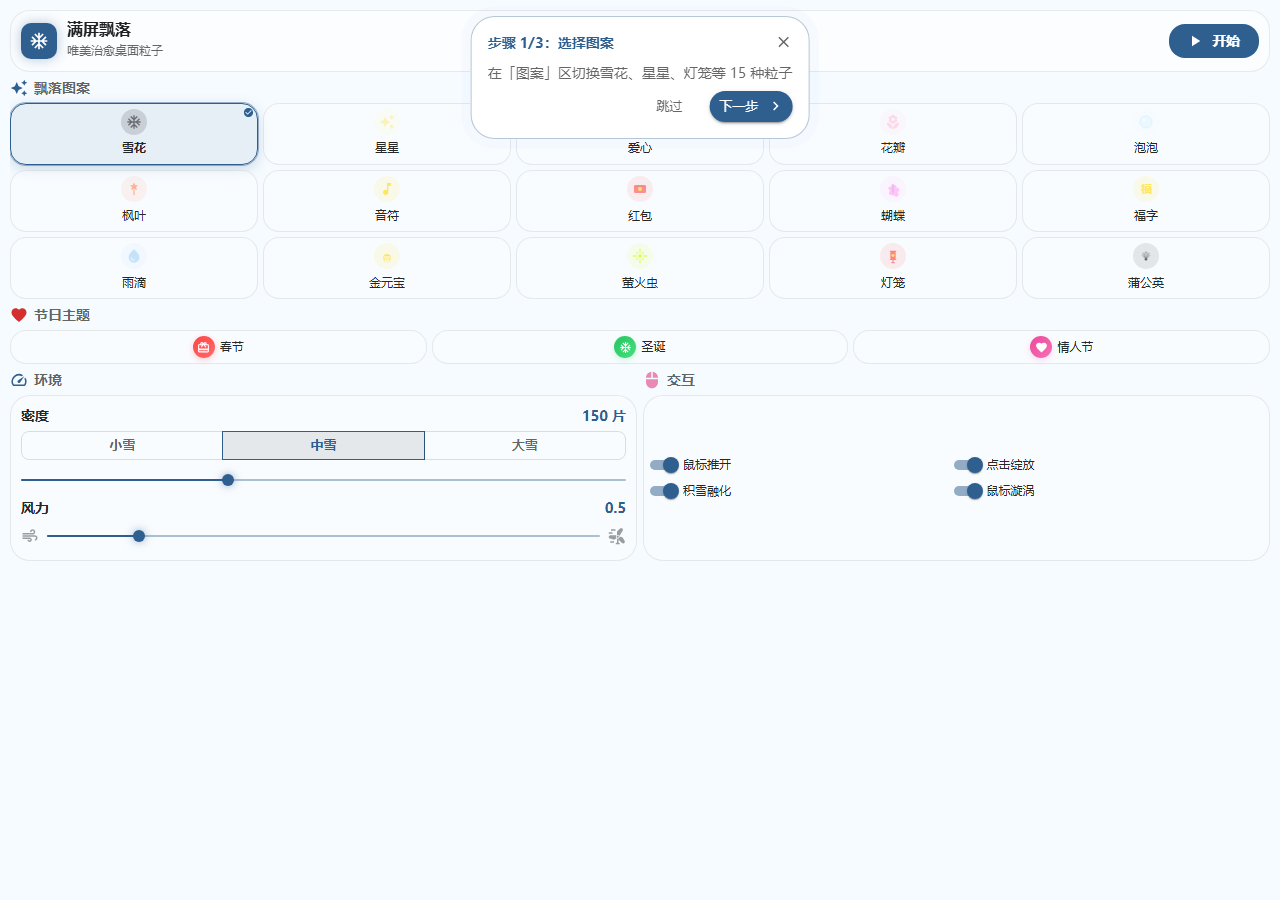
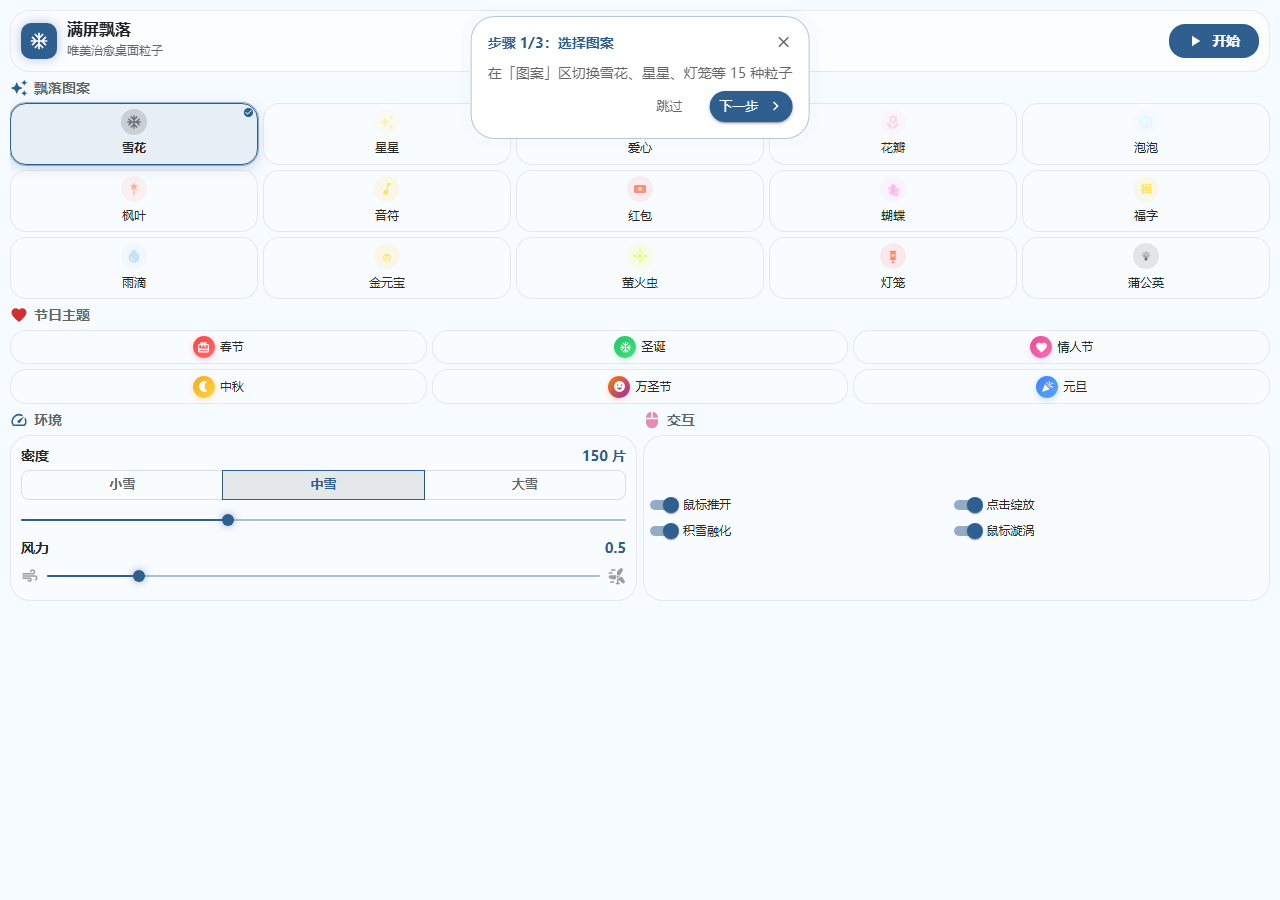
feat: 新增中秋、万圣节、元旦三个节日主题
- public/snow/config.js: 新增 midAutumn/halloween/newYear 主题配置
- src/App.js: 同步 THEME_MAP
- src/components/ThemePanel.js: 新增主题卡片，优化 6 卡布局为换行
- 更新 screenshot-panel.png 和 checkpoint.md

diff --git a/src/components/ThemePanel.js b/src/components/ThemePanel.js
@@ -5,11 +5,17 @@ import CheckCircleIcon from '@mui/icons-material/CheckCircle'
 import FavoriteIcon from '@mui/icons-material/Favorite'
 import AcUnitIcon from '@mui/icons-material/AcUnit'
 import CardGiftcardIcon from '@mui/icons-material/CardGiftcard'
+import NightlightIcon from '@mui/icons-material/Nightlight'
+import EmojiEmotionsIcon from '@mui/icons-material/EmojiEmotions'
+import CelebrationIcon from '@mui/icons-material/Celebration'
 
 const THEME_OPTIONS = [
   { value: 'spring', label: '春节', icon: CardGiftcardIcon, color: '#ff4444', bg: 'linear-gradient(135deg, #ff4444 0%, #ff6b6b 100%)' },
   { value: 'christmas', label: '圣诞', icon: AcUnitIcon, color: '#4ade80', bg: 'linear-gradient(135deg, #22c55e 0%, #4ade80 100%)' },
-  { value: 'valentine', label: '情人节', icon: FavoriteIcon, color: '#f472b6', bg: 'linear-gradient(135deg, #ec4899 0%, #f472b6 100%)' }
+  { value: 'valentine', label: '情人节', icon: FavoriteIcon, color: '#f472b6', bg: 'linear-gradient(135deg, #ec4899 0%, #f472b6 100%)' },
+  { value: 'midAutumn', label: '中秋', icon: NightlightIcon, color: '#f5a623', bg: 'linear-gradient(135deg, #f5a623 0%, #ffd93d 100%)' },
+  { value: 'halloween', label: '万圣节', icon: EmojiEmotionsIcon, color: '#ff7f00', bg: 'linear-gradient(135deg, #ff7f00 0%, #9c27b0 100%)' },
+  { value: 'newYear', label: '元旦', icon: CelebrationIcon, color: '#3b82f6', bg: 'linear-gradient(135deg, #3b82f6 0%, #60a5fa 100%)' }
 ]
 
 export default function ThemePanel ({ festivalTheme, onThemeChange }) {
@@ -25,6 +31,7 @@ export default function ThemePanel ({ festivalTheme, onThemeChange }) {
       <Box sx={{
         display: 'flex',
         flexDirection: 'row',
+        flexWrap: 'wrap',
         gap: 0.65
       }}
       >
@@ -38,7 +45,8 @@ export default function ThemePanel ({ festivalTheme, onThemeChange }) {
               onClick={function () { onThemeChange(item.value) }}
               sx={function (theme) {
                 return {
-                  flex: 1,
+                  flex: '1 1 calc(33.333% - 0.45rem)',
+                  minWidth: 80,
                   p: 0.65,
                   borderRadius: 2,
                   display: 'flex',

diff --git a/public/snow/config.js b/public/snow/config.js
@@ -162,6 +162,30 @@ export const THEMES = {
     wind: 0.3,
     opacityMin: 0.4,
     opacityMax: 0.9
+  },
+  midAutumn: {
+    label: '中秋',
+    pattern: 'star',
+    density: 140,
+    wind: 0.25,
+    opacityMin: 0.5,
+    opacityMax: 0.95
+  },
+  halloween: {
+    label: '万圣节',
+    pattern: 'maple',
+    density: 160,
+    wind: 0.6,
+    opacityMin: 0.45,
+    opacityMax: 0.9
+  },
+  newYear: {
+    label: '元旦',
+    pattern: 'snow',
+    density: 170,
+    wind: 0.5,
+    opacityMin: 0.5,
+    opacityMax: 1
   }
 }
 

diff --git a/src/App.js b/src/App.js
@@ -58,7 +58,10 @@ const INTENSITY_MAP = {
 const THEME_MAP = {
   spring: { pattern: 'lantern', density: 180, wind: 0.4 },
   christmas: { pattern: 'snow', density: 160, wind: 0.7 },
-  valentine: { pattern: 'heart', density: 150, wind: 0.3 }
+  valentine: { pattern: 'heart', density: 150, wind: 0.3 },
+  midAutumn: { pattern: 'star', density: 140, wind: 0.25 },
+  halloween: { pattern: 'maple', density: 160, wind: 0.6 },
+  newYear: { pattern: 'snow', density: 170, wind: 0.5 }
 }
 
 const ONBOARDING_KEY = 'snow-onboarding-done'

diff --git a/checkpoint.md b/checkpoint.md
@@ -67,6 +67,7 @@
 - [x] 自定义 PatternIcon：图标更接近实际飘落粒子
 - [x] 隐藏滚动条，整体压缩至一屏内
 - [x] 修复 `snow/main.js` 缺失 `initSnowGround` 导入导致粒子不飘落的 bug
+- [x] 新增节日主题：中秋、万圣节、元旦
 
 ---
 
@@ -161,7 +162,7 @@ utools-snow-src/
 ## 📋 后续开发计划
 
 ### v1.3.0（当前迭代）
-- [ ] 更多节日主题：中秋、万圣节、元旦等
+- [x] 更多节日主题：中秋（star）、万圣节（maple）、元旦（snow）
 - [ ] 独立桌面版临时鼠标交互：按住指定键（如 Ctrl / Shift）关闭鼠标穿透
 - [ ] 粒子图案自定义：支持用户上传图片或输入文字作为粒子
 - [ ] 独立版托盘菜单增强：暂停/继续、密度预设、主题切换
